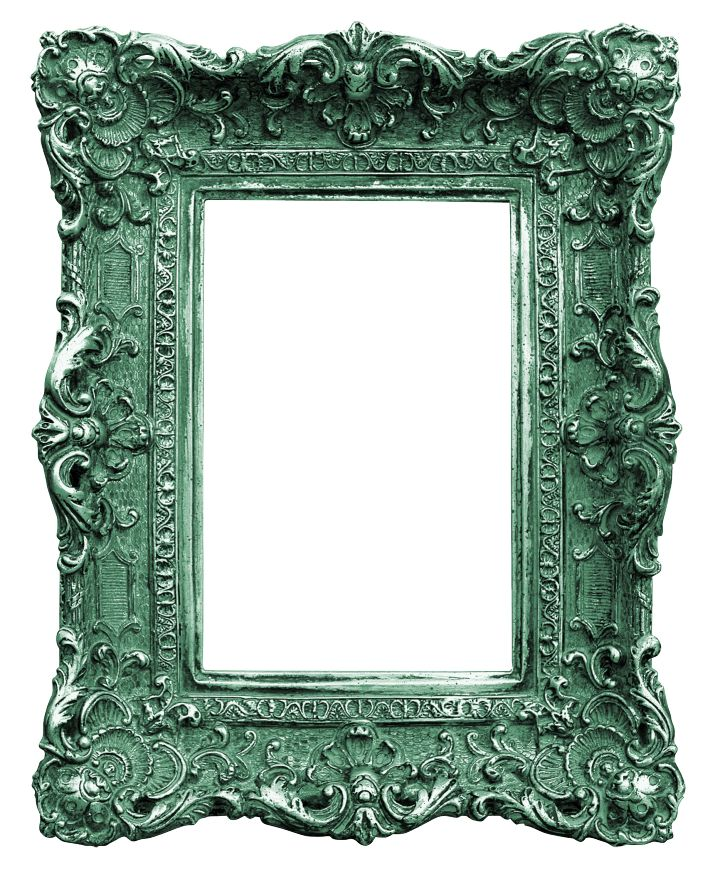
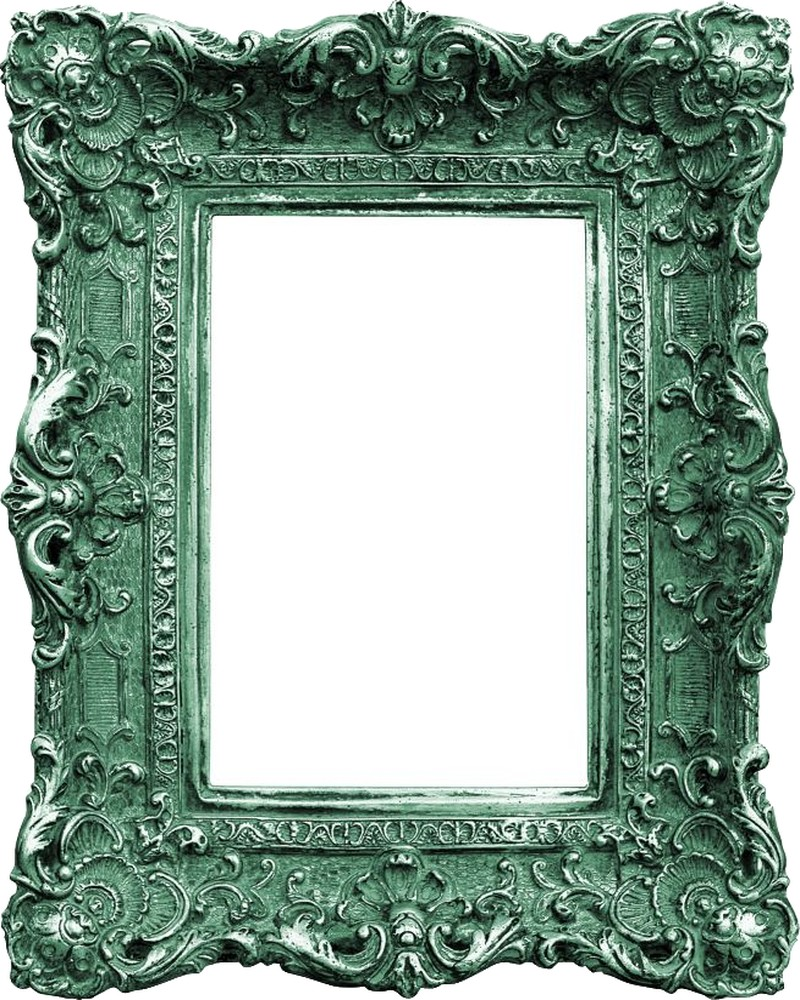
Normalize frames to uniform 4:5 canvases (trim margins, remove checkerboard); measured per-frame window insets

diff --git a/src/neural/Sections.jsx b/src/neural/Sections.jsx
@@ -544,12 +544,14 @@ const ARTIFACTS = [
    drops the white surround + window, leaving only the coloured frame; the
    artwork shows through the transparent-looking centre. `inset` is the % from
    each edge to the frame's window (tuned per image's border thickness). */
+/* Images are normalized to identical 800x1000 canvases with the frame filling
+   edge-to-edge; each inset is that frame's measured window (top right bottom left). */
 const ART_FRAMES = [
-  { src: "/frames/frame-1.jpg", inset: "20% 16%" }, // green baroque
-  { src: "/frames/frame-2.jpg", inset: "17% 15%" }, // periwinkle
-  { src: "/frames/frame-3.jpg", inset: "18% 16%" }, // sky blue
-  { src: "/frames/frame-4.jpg", inset: "22% 20%" }, // antique white
-  { src: "/frames/frame-5.jpg", inset: "19% 17%" }, // navy + gold
+  { src: "/frames/frame-1.jpg", inset: "21.3% 26.3% 21% 25.9%" }, // green baroque
+  { src: "/frames/frame-2.jpg", inset: "13.2% 17.4% 13.4% 17.4%" }, // periwinkle
+  { src: "/frames/frame-3.jpg", inset: "16.6% 20% 16.1% 19.8%" }, // sky blue
+  { src: "/frames/frame-4.jpg", inset: "20% 21.6% 19.7% 20.4%" }, // antique white
+  { src: "/frames/frame-5.jpg", inset: "12% 17% 12.4% 16.8%" }, // navy + gold
 ];
 
 /* Puts `children` inside an ornate frame image; the artwork sits in the
